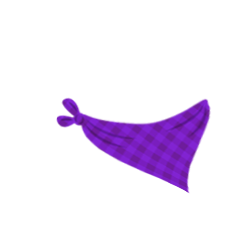
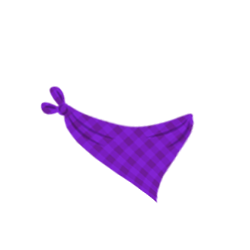
Fix bandana

Changed region(s): [[0.14, 0.336, 0.84, 0.812]]

diff --git a/styles/dog.scss b/styles/dog.scss
@@ -180,7 +180,7 @@ html {
 
         &:before {
           content: '';
-          background-image:url(https://res.cloudinary.com/dloxgdltu/image/upload/v1629007377/animation/character/dog/bandana_i9yqps.png);
+          background-image:url(https://res.cloudinary.com/dloxgdltu/image/upload/v1629007924/animation/character/dog/bandana_1_crfwh4.png);
           background-size:100% 100%;
           position:absolute;
           top:50%;
